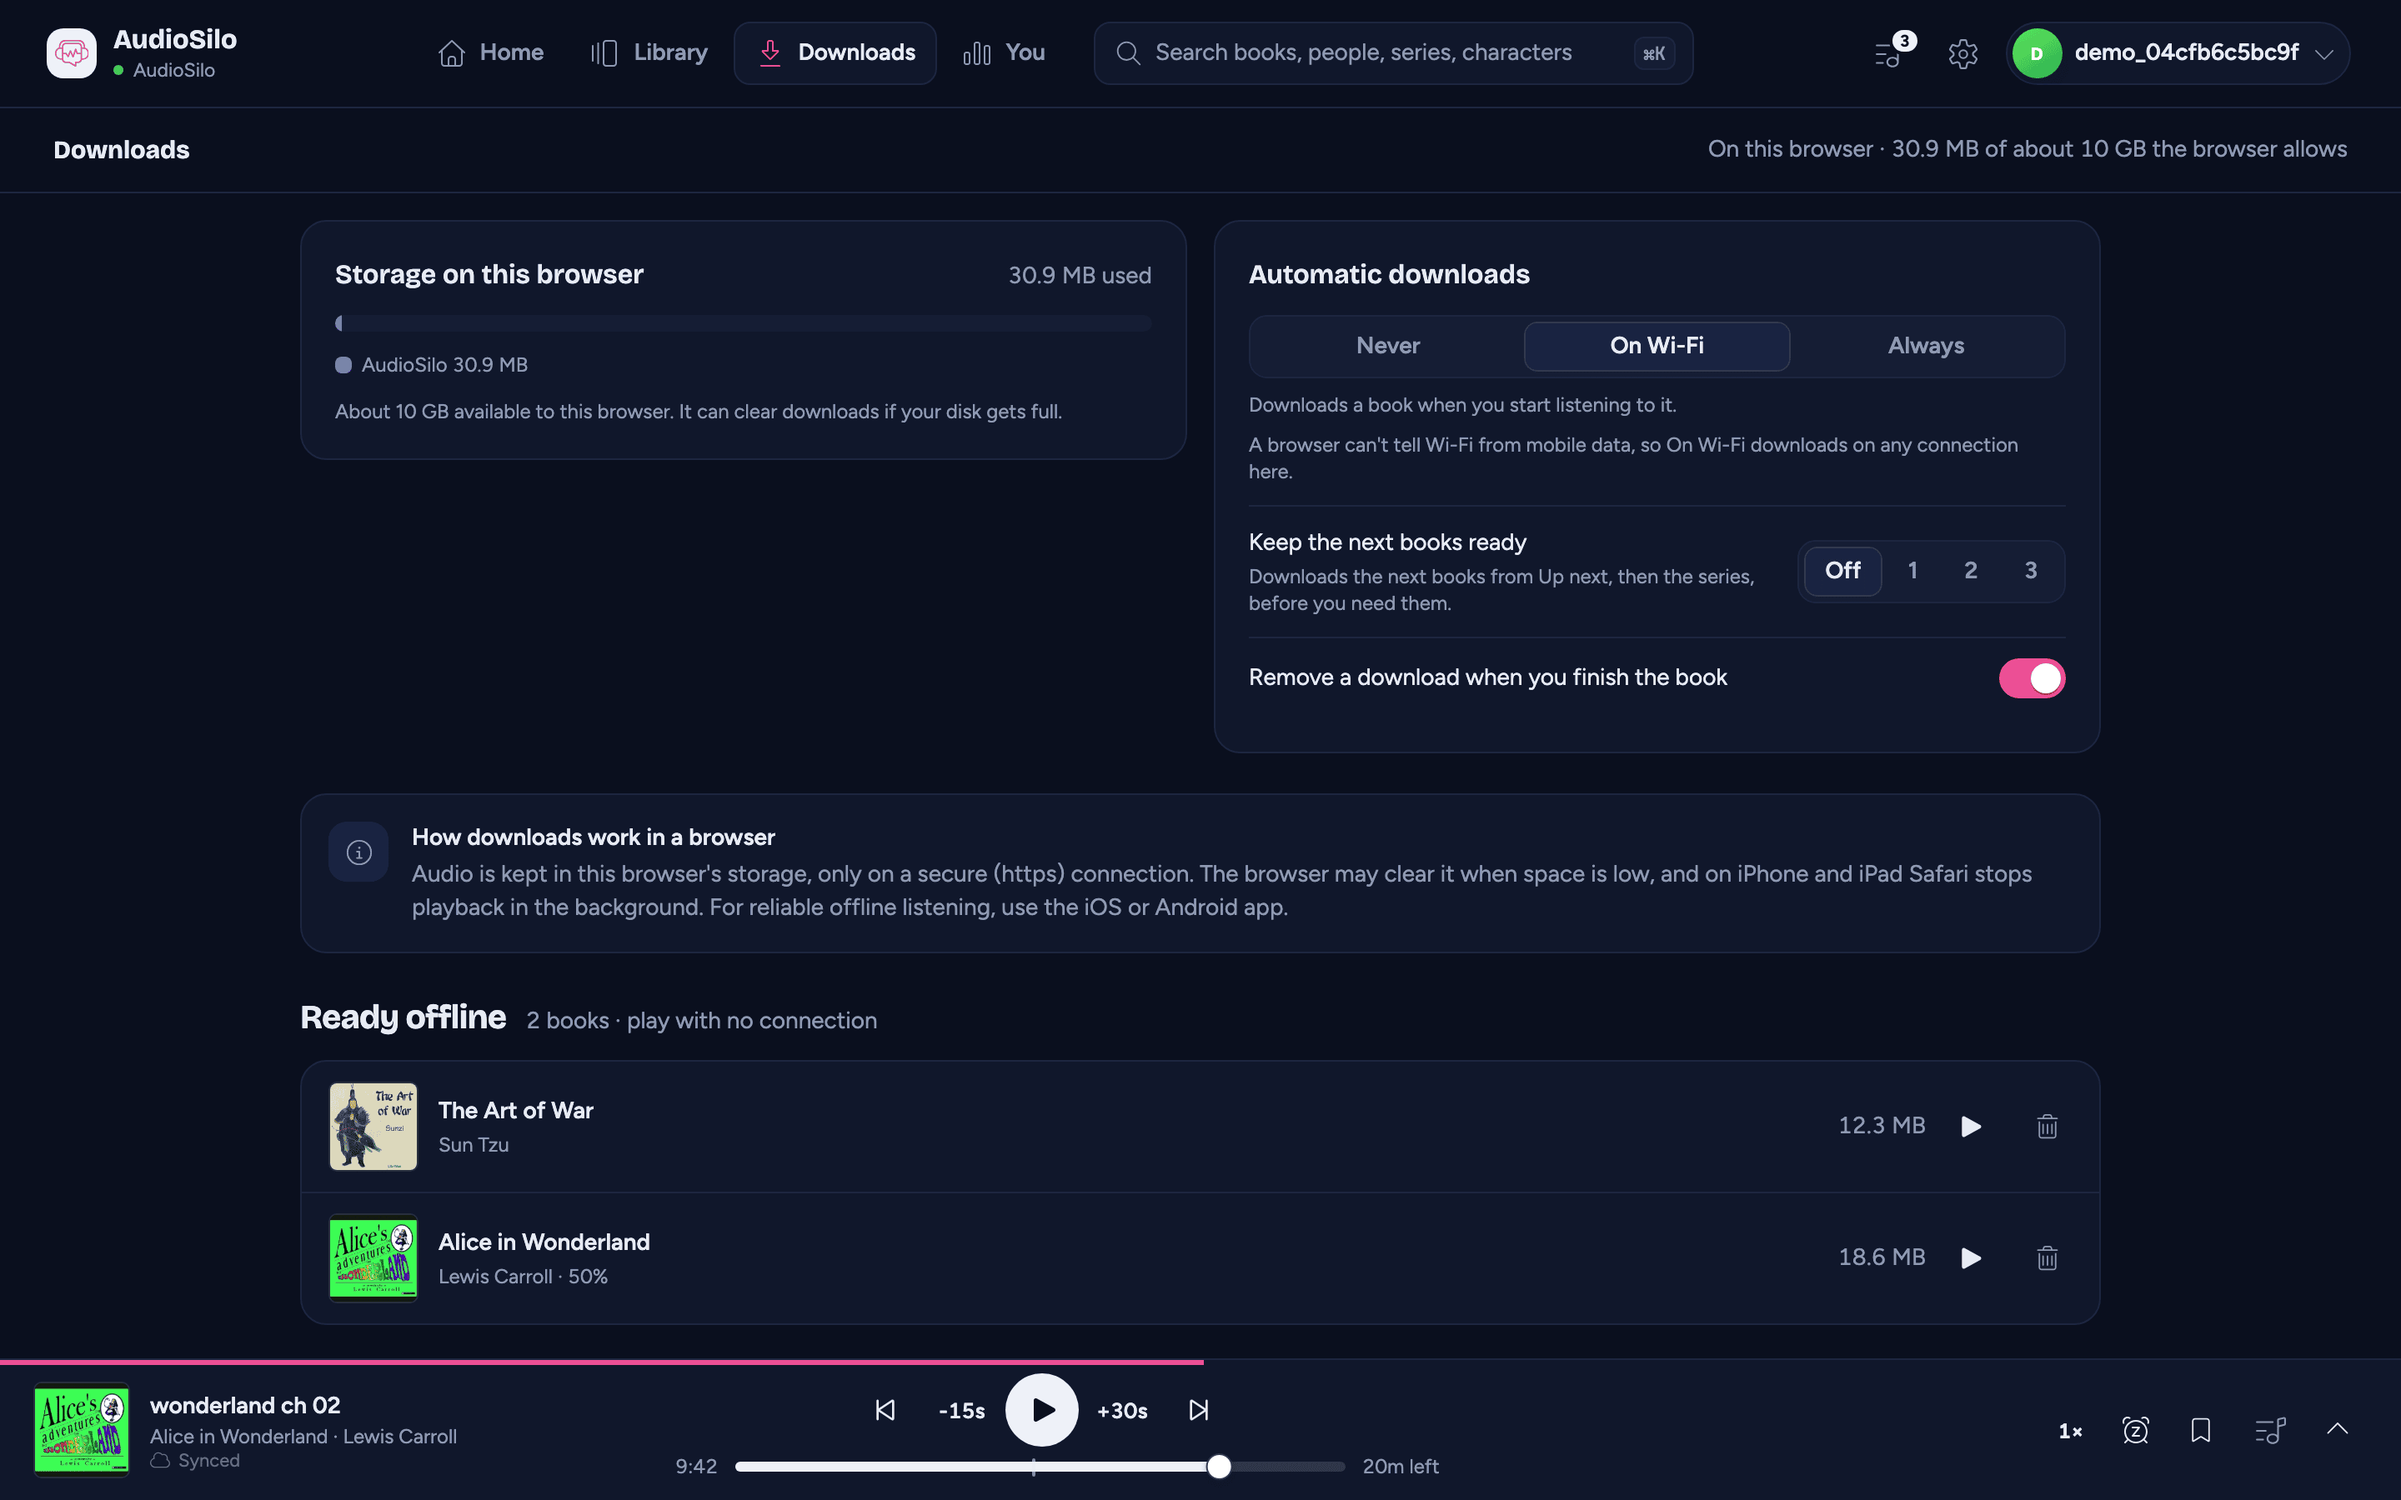
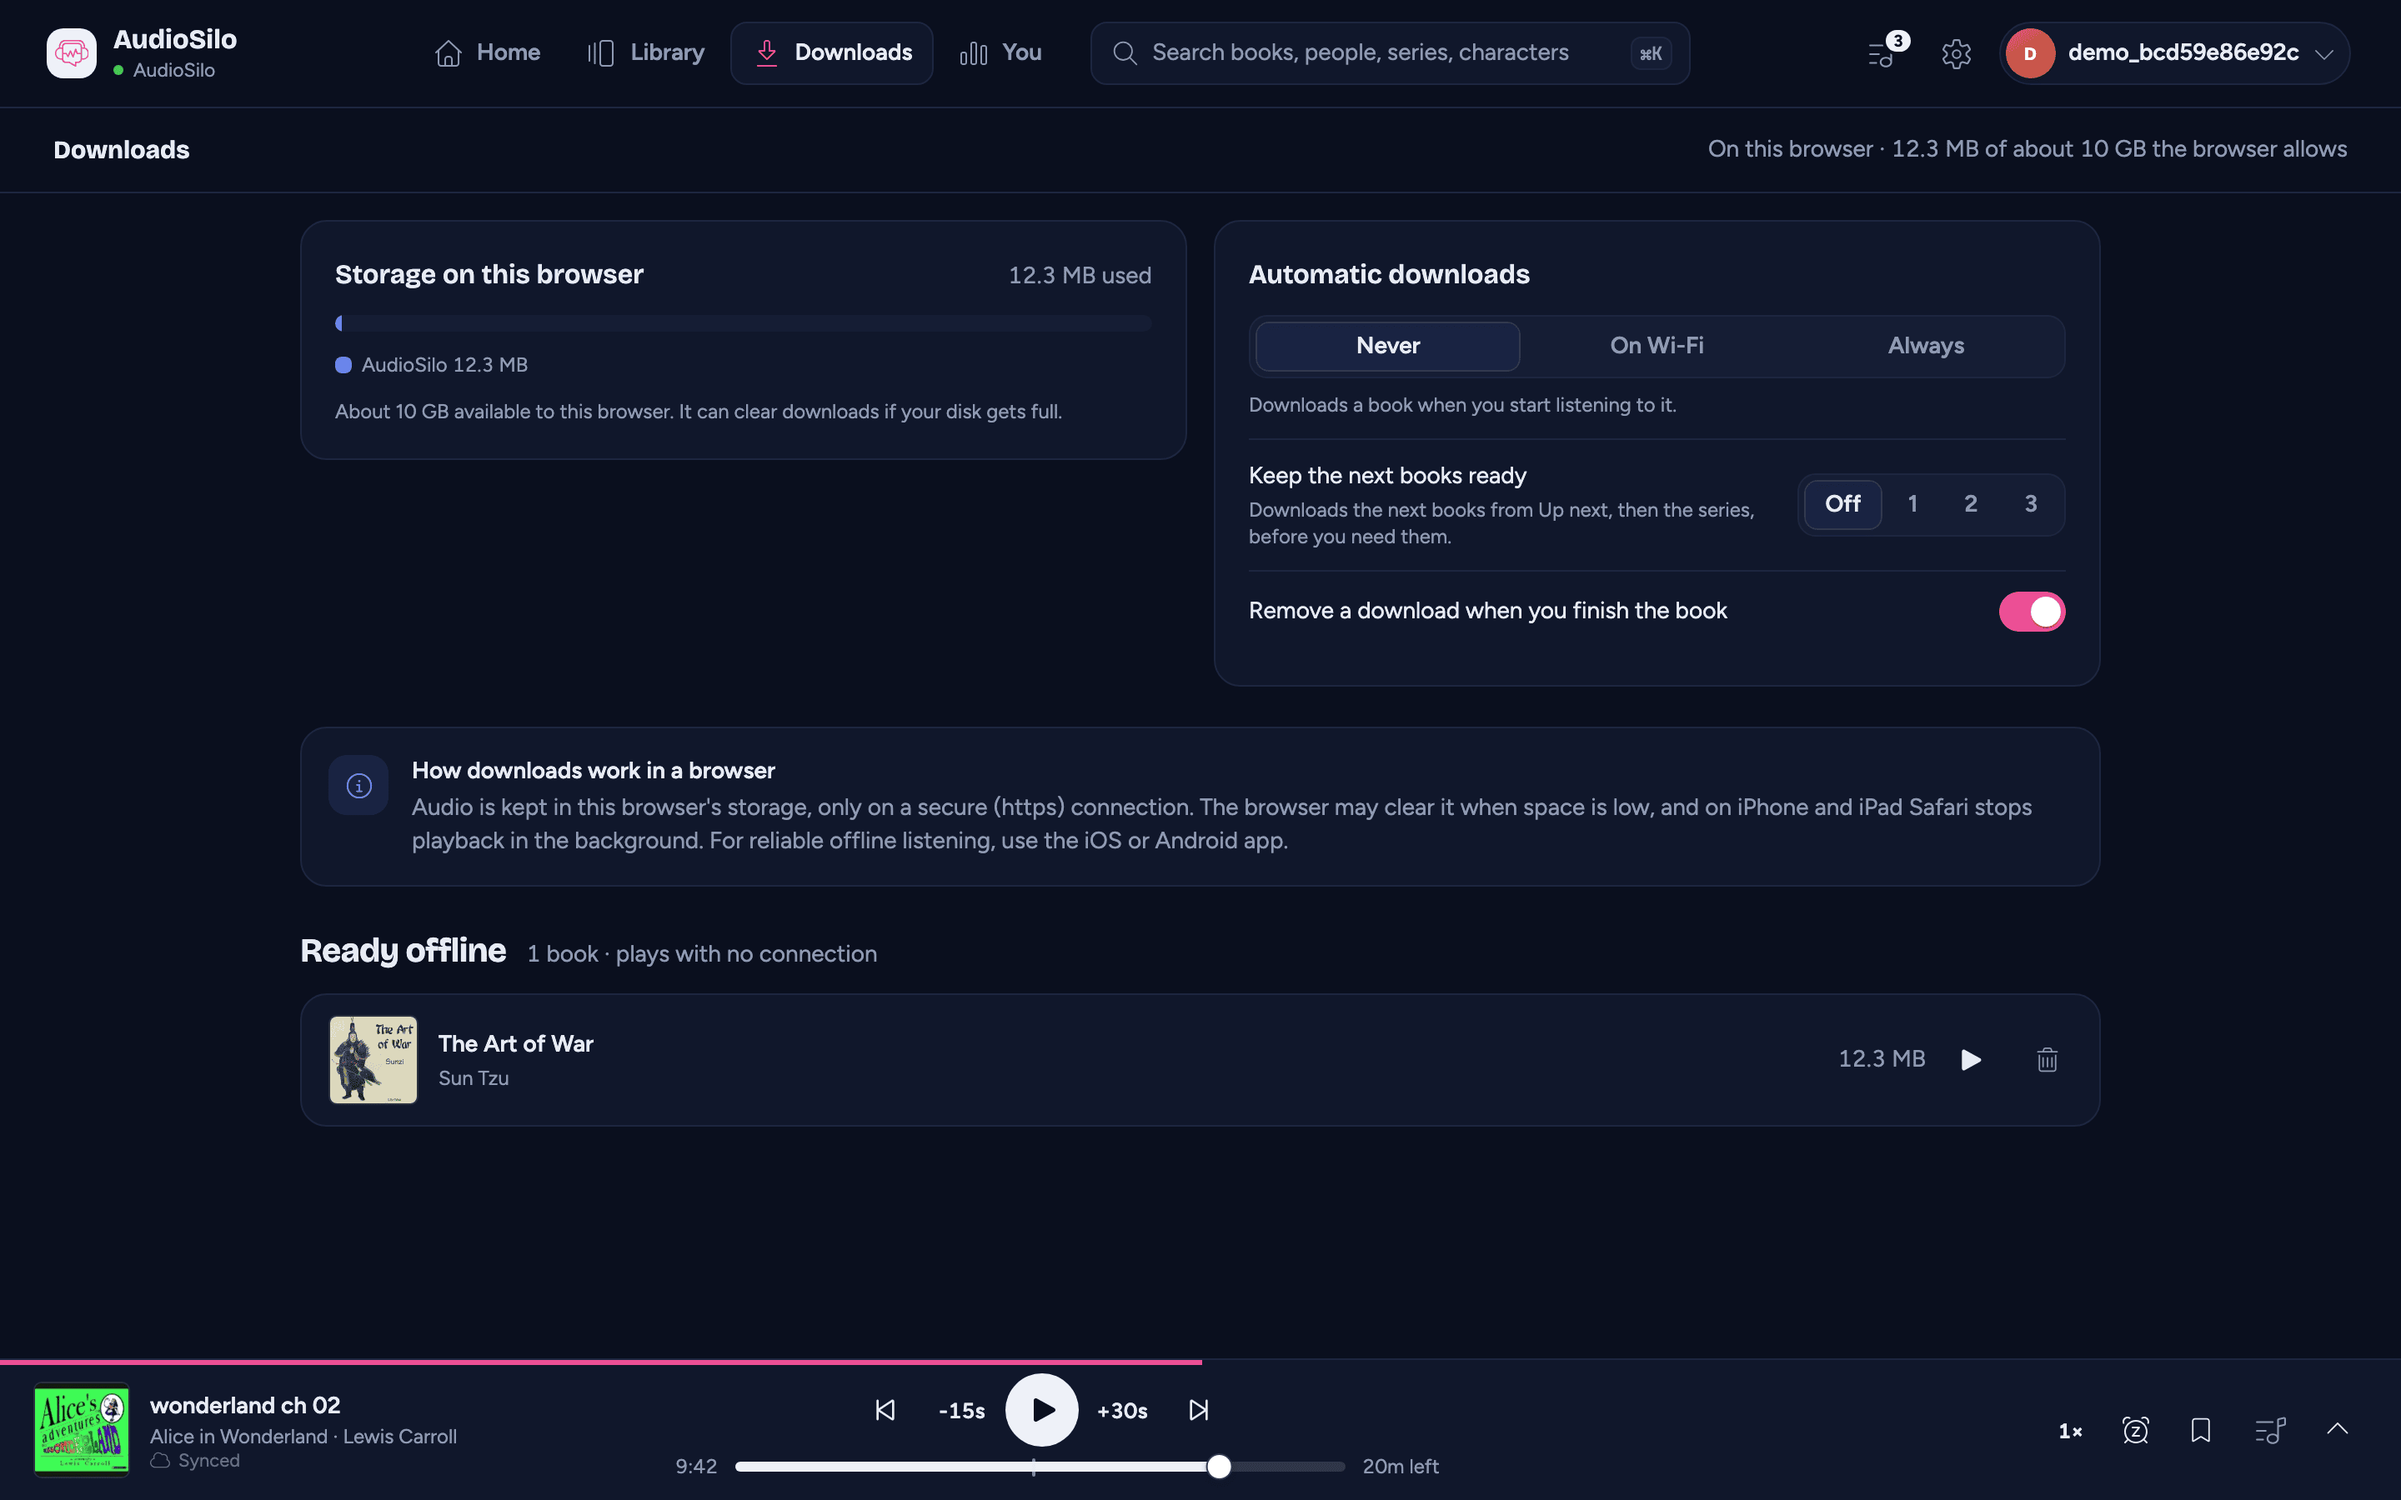
Docs: automatic downloads off by default in the web player
The web player now starts at Never for Download automatically (the apps
keep On Wi-Fi), and a browser already on On Wi-Fi moves to Never once
unless Keep the next books ready is on. Settings and Offline downloads
say so; the developer pages cover defaultAutoDownload, the settings
document's version and migrateSettings, and the download controls'
state/progress split. The Downloads shot is recaptured (Never selected).

diff --git a/docs-users/listening/settings.md b/docs-users/listening/settings.md
@@ -56,12 +56,12 @@ What happens as one book ends and the next begins (see [The end of a book](end-o
 | Setting | What it does | Options (default) |
 |---|---|---|
 | **Automatically play next book** | When a book finishes, start [what plays next](end-of-book.md#what-plays-next) after a short countdown on the end credits | On / Off (default **Off**) |
-| **Download automatically** | Download the book you start listening to, so it's ready to hear offline. Streaming begins straight away, and playback switches to the downloaded copy quietly once it's on the device. It leaves the same free space as Keep the next books ready, and skips a book you cancelled or removed earlier in the session | Never / On Wi-Fi / Always (default **On Wi-Fi**) |
+| **Download automatically** | Download the book you start listening to, so it's ready to hear offline. Streaming begins straight away, and playback switches to the downloaded copy quietly once it's on the device. It leaves the same free space as Keep the next books ready, and skips a book you cancelled or removed earlier in the session | Never / On Wi-Fi / Always (default **On Wi-Fi** in the apps, **Never** in the web player) |
 | **Keep the next books ready** | While you listen, download this many of the next books - from your Up next queue first, then the series - so they're ready offline. Follows the automatic download setting above, and always leaves at least 1 GB free (or a tenth of your storage, if that's more). A line under it says what it's doing. See [Keep the next books ready](offline-downloads.md#keep-the-next-books-ready) | Off / 1 / 2 / 3 (default **Off**) |
 | **Remove a download when you finish the book** | Remove a book's downloaded files from the device when it's marked finished, to free up space. Your place in it is kept | On / Off (default **On**) |
 
 :::note
-**On Wi-Fi** skips the automatic download on a known mobile-data connection, so it won't eat your data allowance. In the web player, and when the connection type can't be determined, it goes ahead. You can always download a book by hand on the book's page - see [Offline downloads](offline-downloads.md).
+**On Wi-Fi** skips the automatic download on a known mobile-data connection, so it won't eat your data allowance. When the app can't tell the connection type, it goes ahead. A browser can never tell, so in the web player On Wi-Fi downloads on any connection; that's why the web player starts at **Never**. A browser already set to On Wi-Fi (the old default) is moved to Never once, unless you had set **Keep the next books ready** to 1, 2 or 3. You can always download a book by hand on the book's page - see [Offline downloads](offline-downloads.md).
 :::
 
 ## Appearance

diff --git a/docs-users/listening/offline-downloads.md b/docs-users/listening/offline-downloads.md
@@ -43,7 +43,7 @@ Downloads are per-device: what you downloaded on your phone isn't automatically 
 
 The **Automatic downloads** card on the Downloads page holds three settings. They're the same settings as the **Up next and downloads** section of [Settings](settings.md#up-next-and-downloads), so changing one place changes the other.
 
-- **Download automatically**: **Never**, **On Wi-Fi** or **Always**. With On Wi-Fi or Always, the book you start listening to is downloaded as you play it, and playback quietly switches to the downloaded copy once it's on the device. On Wi-Fi skips mobile data on a phone or tablet. A browser can't tell Wi-Fi from mobile data, so in the web player On Wi-Fi downloads on any connection, and the card says so. Like Keep the next books ready (below), it leaves at least 1 GB (or a tenth of your storage) free, and it won't fetch a book you cancelled or removed earlier in the session.
+- **Download automatically**: **Never**, **On Wi-Fi** or **Always**. With On Wi-Fi or Always, the book you start listening to is downloaded as you play it, and playback quietly switches to the downloaded copy once it's on the device. On Wi-Fi skips mobile data on a phone or tablet. A browser can't tell Wi-Fi from mobile data, so in the web player On Wi-Fi downloads on any connection, and the card says so. The apps start at **On Wi-Fi**; the web player starts at **Never**, so a book you play in a browser streams without being saved unless you choose otherwise (a browser already set to On Wi-Fi, the old default, is moved to Never once, unless Keep the next books ready was on). Like Keep the next books ready (below), it leaves at least 1 GB (or a tenth of your storage) free, and it won't fetch a book you cancelled or removed earlier in the session.
 - **Keep the next books ready**: **Off**, **1**, **2** or **3** (below).
 - **Remove a download when you finish the book**, to free up space as you go. Your place in the book is kept. On out of the box.
 

diff --git a/docs-developers/frontend/end-of-book.md b/docs-developers/frontend/end-of-book.md
@@ -225,6 +225,17 @@ browser can't report the connection type) plus native `WIFI`/`ETHERNET`, and
 **fails open** on an `UNKNOWN`/undefined type or a probe error, so only a
 positively-known metered connection is skipped. The three settings
 (`autoPlayNext`, `autoDownloadNext`, `autoDeleteFinished`) live in
-`src/stores/settings.ts` with defaults `false` / `'wifi'` / `true` - the
-persisted `autoDownloadNext` key name predates the download-on-start behavior
-and is kept for hydration compatibility.
+`src/stores/settings.ts` with defaults `false` / `defaultAutoDownload()` /
+`true` - the persisted `autoDownloadNext` key name predates the download-on-start
+behavior and is kept for hydration compatibility. `defaultAutoDownload()` is
+`'wifi'` on native and `'never'` on web: since `wifi` lets web through, a `wifi`
+default there downloaded every book started in a browser on any connection.
+
+The stored document carries a schema `version` (`SETTINGS_VERSION`, now 1; a
+document without one is 0), written with every save and dropped from the store
+state on hydrate. `migrateSettings` runs in the document's parse step: on web
+only, a version-0 document whose `autoDownloadNext` is `'wifi'` becomes `'never'`,
+unless its `keepAhead` (through `toKeepAhead`) is above 0 - an opt-in to
+automatic downloads that `'never'` would silently stop. `'always'`, `'never'` and
+every native document are left as they are. The migration re-runs on each load
+until the next save writes `version: 1`, and gives the same answer each time.

diff --git a/docs-developers/frontend/offline.md b/docs-developers/frontend/offline.md
@@ -230,7 +230,11 @@ with no network.
   why the playback store's automatic download asks as `auto`.
 - **UI**: `useDownloadControls` (`use-download-controls.ts`) wraps all of this
   for the book screen, the badges and the book menu (`book-actions.tsx` reads the
-  same hook); the `/downloads` page is below. Its `needsTranscode` (web, a book that
+  same hook); the `/downloads` page is below. It returns a book's state (`status`,
+  `error`, through the shallow-compared `useDownloadState`) and the start/cancel
+  actions, never the progress numbers, so a running download's ticks re-render
+  none of its callers; what draws the progress (`DownloadControl`'s bar) reads
+  `useDownloadProgress` beside it. Its `needsTranscode` (web, a book that
   streams transcoded, with no entry or an errored one - a download already on disk
   stays removable) turns `supported` off so `DownloadControl` reads "Can't download
   in this browser" rather than the generic "Downloads unavailable". List responses

diff --git a/docs-developers/frontend/state-and-data.md b/docs-developers/frontend/state-and-data.md
@@ -1039,7 +1039,8 @@ Playback tunables persisted as one JSON blob (`audiosilo.settings`):
 `voiceBoost` (off; see [Smart speed and Voice boost](audio-effects.md#the-settings-and-the-ui)).
 The playback layer subscribes and re-`configure`s the engine whenever these change.
 The same document holds the end-of-book and download behaviour - `autoPlayNext` (off), `autoDownloadNext`
-(`never | wifi | always`, default `wifi`), `keepAhead` (`0 | 1 | 2 | 3`, default
+(`never | wifi | always`, default `wifi` on native and `never` on web, `defaultAutoDownload`; see
+[Auto-download on play](end-of-book.md#auto-download-on-play)), `keepAhead` (`0 | 1 | 2 | 3`, default
 `0` = off; `toKeepAhead` reads a stored value that isn't one as off; see
 [Offline](offline.md#keep-the-next-books-ready-keep-aheadts--keep-ahead-controllerts))
 and `autoDeleteFinished`
